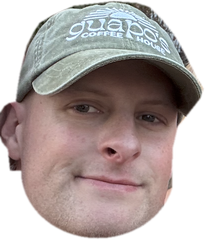
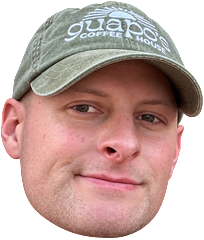
feat(logs): sam's head from his own cutout
Replaces the hand-masked cut with the clean lift Sam supplied, resized
to 240 tall with a premultiplied-alpha downscale (no edge fringe).
Width 205 → 204.

Claude-Session: https://claude.ai/code/session_01SxQq3fhB7amT4NeEUMVNk9

diff --git a/src/lib/sitters.ts b/src/lib/sitters.ts
@@ -21,7 +21,7 @@ export const SITTERS: Sitter[] = [
     name: 'sam',
     full: "Salvatore D'Angelo",
     head: '/sitters/sam.png',
-    w: 205,
+    w: 204,
     h: 5.8,
     log: 0,
     role: 'host',
